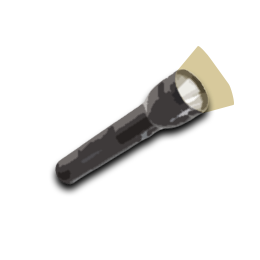
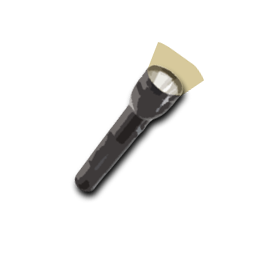
inventory button shenanigan has been solved, would have done more today if it weren't for migraine

Changed region(s): [[0.1846, 0.1538, 0.9231, 0.7692]]

diff --git a/GAME/MainClasses/game/viewer/InventoryScreen.java b/GAME/MainClasses/game/viewer/InventoryScreen.java
@@ -46,17 +46,22 @@ public class InventoryScreen {
 	private int Width;
 	
 	public int centerItemIconX = 238;
-	public int CenterItemIconY = 73;
+	public int CenterItemIconY = 70;
 	
 	public int ItemIconX[] = {25,100,175, centerItemIconX ,355,430,505};
 	public int ItemIconY[] = {CenterItemIconY,105};
 	
 	public int[] ItemIconType = new int[16];
+	
+	public int W;
+	public int H;
 
 	
 	InventoryScreen(int W, int H) {
 		//this.toggleButtonStateFinal();
 		this.populateItemIconTypeArray();
+		this.setW(W);
+		this.setH(H);
 		
 		if(W == 656) {
 			Image Resize640 = Resize.getScaledInstance(640, 480, java.awt.Image.SCALE_SMOOTH);
@@ -119,7 +124,18 @@ public class InventoryScreen {
 	public JLayeredPane getInventoryScreen() {
 		return InventoryScreen;
 	}
-	
+	public void setW(int w) {
+		W = w;
+	}
+	public void setH(int h) {
+		H = h;
+	}
+	public int getW() {
+		return W;
+	}
+	public int getH() {
+		return H;
+	}
 	public void setHeight(int height) {
 		Height = height;
 	}
@@ -221,16 +237,29 @@ public class InventoryScreen {
 		for(int i = 0; i<= ItemIconType.length-1;i++) {
 			ItemIconType[i] = tempA[i]; 
 			System.out.println(ItemIconType[i]);
-			slot0.Update(ItemIconType[i]);
-			slot1.Update(ItemIconType[i]);
-			slot2.Update(ItemIconType[i]);
-			slot3.Update(ItemIconType[i]);
-			slot4.Update(ItemIconType[i]);
-			slot5.Update(ItemIconType[i]);
-			slot6.Update(ItemIconType[i]);
-			
+					
 		}
-	
+		slot0.Update(this.getW(),this.getH(),ItemIconType[1],false);
+			slot0.getIcon().setLocation(this.ScalingWidth(ItemIconX[0]),this.ScalingHeight(ItemIconY[1]));
+			
+		slot1.Update(this.getW(),this.getH(),ItemIconType[2],false);
+			slot1.getIcon().setLocation(this.ScalingWidth(ItemIconX[1]),this.ScalingHeight(ItemIconY[1]));
+			
+		slot2.Update(this.getW(),this.getH(),ItemIconType[3],false);
+			slot2.getIcon().setLocation(this.ScalingWidth(ItemIconX[2]),this.ScalingHeight(ItemIconY[1]));
+			
+		slot3.Update(this.getW(),this.getH(),ItemIconType[4],true);
+			slot3.getIcon().setLocation(this.ScalingWidth(ItemIconX[3]),this.ScalingHeight(ItemIconY[0]));
+			
+		slot4.Update(this.getW(),this.getH(),ItemIconType[5],false);
+			slot4.getIcon().setLocation(this.ScalingWidth(ItemIconX[4]),this.ScalingHeight(ItemIconY[1]));
+			
+		slot5.Update(this.getW(),this.getH(),ItemIconType[6],false);
+			slot5.getIcon().setLocation(this.ScalingWidth(ItemIconX[5]),this.ScalingHeight(ItemIconY[1]));
+			
+		slot6.Update(this.getW(),this.getH(),ItemIconType[7],false);
+			slot6.getIcon().setLocation(this.ScalingWidth(ItemIconX[6]),this.ScalingHeight(ItemIconY[1]));
+			
 
 		
 	}
@@ -278,11 +307,11 @@ public class InventoryScreen {
 		
 	slot0 = new ItemIcons(W,H,ItemIconType[0],false);
 		slot0.getIcon().setLocation(this.ScalingWidth(ItemIconX[0]),this.ScalingHeight(ItemIconY[1]));
-		InventoryScreen.add(slot0.getIcon(),Integer.valueOf(4));
+		InventoryScreen.add(slot0.getIcon(),Integer.valueOf(3));
 		
 	slot1 = new ItemIcons(W,H,ItemIconType[1],false);
 		slot1.getIcon().setLocation(this.ScalingWidth(ItemIconX[1]),this.ScalingHeight(ItemIconY[1]));
-		InventoryScreen.add(slot1.getIcon(),Integer.valueOf(5));
+		InventoryScreen.add(slot1.getIcon(),Integer.valueOf(3));
 		
 	slot2 = new ItemIcons(W,H,ItemIconType[2],false);
 		slot2.getIcon().setLocation(this.ScalingWidth(ItemIconX[2]),this.ScalingHeight(ItemIconY[1]));
@@ -290,19 +319,19 @@ public class InventoryScreen {
 		
 	slot3 = new ItemIcons(W,H,ItemIconType[3],true);
 		slot3.getIcon().setLocation(this.ScalingWidth(ItemIconX[3]),this.ScalingHeight(ItemIconY[0]));
-		InventoryScreen.add(slot3.getIcon(),Integer.valueOf(2));
+		InventoryScreen.add(slot3.getIcon(),Integer.valueOf(3));
 		
 	slot4 = new ItemIcons(W,H,ItemIconType[4],false);
 		slot4.getIcon().setLocation(this.ScalingWidth(ItemIconX[4]),this.ScalingHeight(ItemIconY[1]));
-		InventoryScreen.add(slot4.getIcon(),Integer.valueOf(1));
+		InventoryScreen.add(slot4.getIcon(),Integer.valueOf(3));
 		
 	slot5 = new ItemIcons(W,H,ItemIconType[5],false);
 		slot5.getIcon().setLocation(this.ScalingWidth(ItemIconX[5]),this.ScalingHeight(ItemIconY[1]));
-		InventoryScreen.add(slot5.getIcon(),Integer.valueOf(0));
+		InventoryScreen.add(slot5.getIcon(),Integer.valueOf(3));
 		
 	slot6 = new ItemIcons(W,H,ItemIconType[6],false);
 		slot6.getIcon().setLocation(this.ScalingWidth(ItemIconX[6]),this.ScalingHeight(ItemIconY[1]));
-		InventoryScreen.add(slot6.getIcon(),Integer.valueOf(6));
+		InventoryScreen.add(slot6.getIcon(),Integer.valueOf(3));
 	}
 	
 	

diff --git a/GAME/MainClasses/game/viewer/ItemIcons.java b/GAME/MainClasses/game/viewer/ItemIcons.java
@@ -32,6 +32,13 @@ public class ItemIcons {
 		this.setHeight(H);
 		this.setCenterIcon(centerI);
 		this.drawingAndScalingIcons();
+		
+		System.out.println("building Icon ");
+		ImageLabel.setBounds(0,0,BackGround.getIconWidth(),BackGround.getIconHeight());
+		Icon.add(ImageLabel);
+		Icon.setBounds(0,0,this.getWidth(),this.getHeight());
+		Icon.setLayout(null);
+		Icon.setVisible(Visible);
 	}
 		
 	public void drawingAndScalingIcons() {
@@ -83,16 +90,15 @@ public class ItemIcons {
 				this.setHeight(BackGround.getIconHeight());
 				this.setWidth(BackGround.getIconWidth());
 			}
-				System.out.println("building Icon ");
-				ImageLabel.setBounds(0,0,BackGround.getIconWidth(),BackGround.getIconHeight());
-				Icon.add(ImageLabel);
-				Icon.setBounds(0,0,this.getWidth(),this.getHeight());
-				Icon.setLayout(null);
-				Icon.setVisible(Visible);
 			
 
 	}
-		public void Update(int SetImage) {
+		public void Update(int W, int H,int SetImage,boolean centerI) {
+			this.setImage(SetImage);
+			this.setWidth(W);
+			this.setHeight(H);
+			this.setCenterIcon(centerI);
+			this.drawingAndScalingIcons();
 			this.setImage(SetImage);
 			this.drawingAndScalingIcons();
 		}
